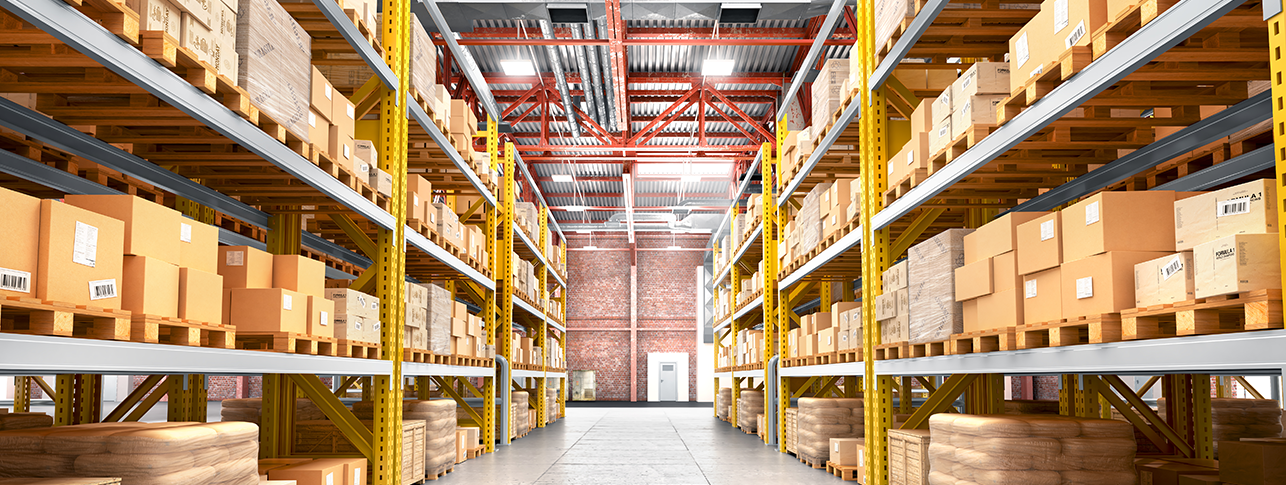
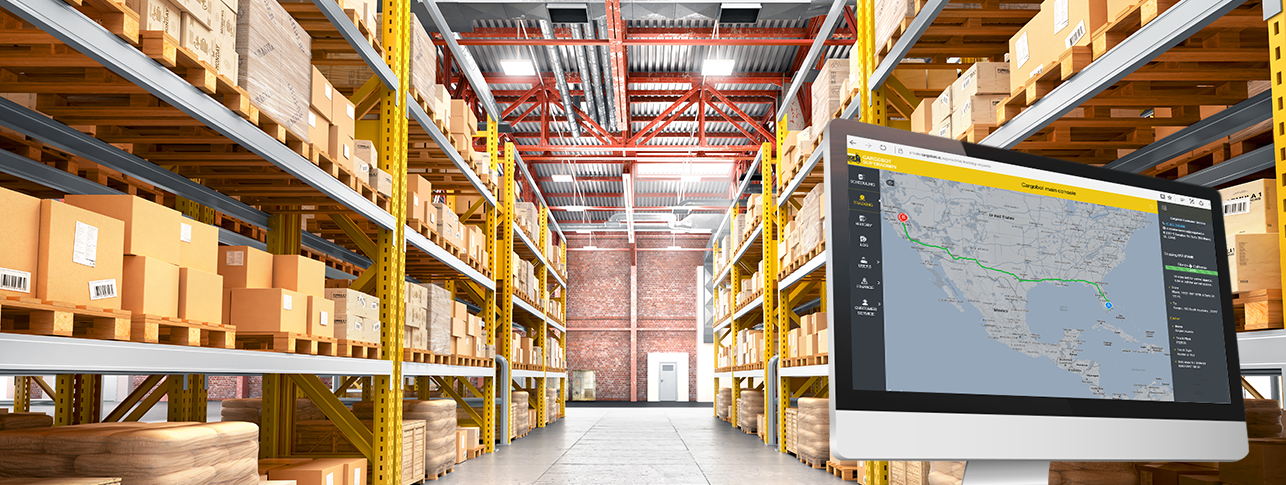
m

Changed region(s): [[0.6221, 0.2474, 0.9953, 1.0]]

diff --git a/static/css/app.css b/static/css/app.css
@@ -96,7 +96,7 @@ body, html {
 }
 
 .foto_principal_shippers{
-	background-image: url("img/foto_shippers1.png") !important;
+	background-image: url("img/foto_shippers12.png") !important;
 	background-position: center top !important;
 	background-repeat: no-repeat!important;
 	background-size: cover;
